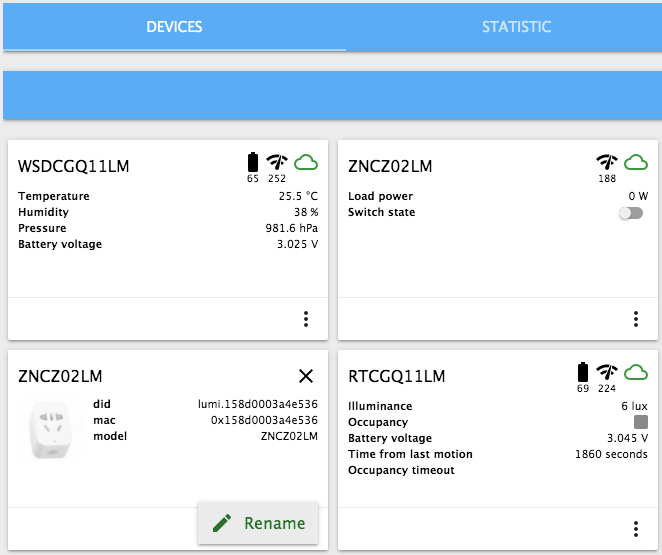
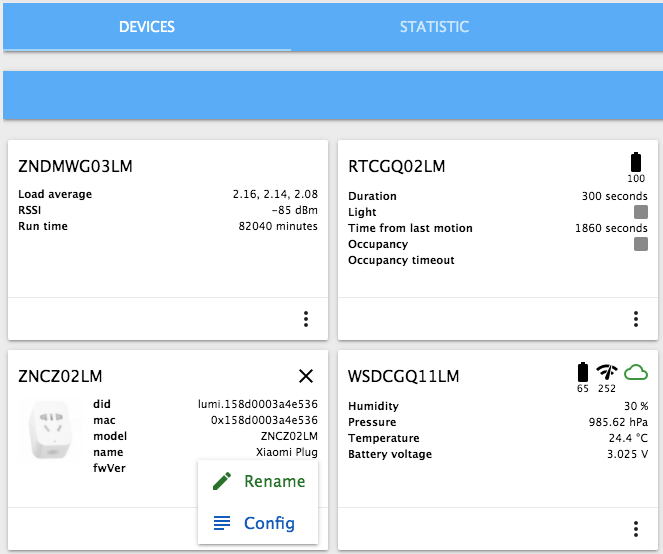
Add config for devices
Add possibility for user to define some device options by interface.

diff --git a/main.js b/main.js
@@ -4,9 +4,13 @@
 const utils = require('@iobroker/adapter-core');
 const {isArray, isObject} = require('./lib/tools');
 /* */
+const fs = require('fs');
+const path = require('path');
 const crypto = require('crypto');
 const mqtt = require('mqtt');
 const format = require('date-fns/format');
+/* */
+const yaml = require('js-yaml');
 /* */
 const {fetchHashOfString} = require('./lib/utils');
 /* */
@@ -164,7 +168,18 @@ class XiaomiGateway3 extends utils.Adapter {
             this.#mqttc.on('message', this._onMqttMessage.bind(this));
         }
 
-        /* set adapter connection indicator */
+        /* Create instance data folder `xiaomi-gateway3_%INSTANCE%` */
+        const dbDir = path.join(utils.getAbsoluteInstanceDataDir(this), '').replace('.', '_');
+
+        if (!fs.existsSync(dbDir)) {
+            try {
+                fs.mkdirSync(dbDir, '0755');
+            } catch (e) {
+                this.logger.error(`Cannot create directory ${dbDir}: ${e}`);
+            }
+        }
+
+        /* Set adapter connection indicator */
         const connected = enabledTelnet && enabledMqtt;
 
         await this.setStateAsync('info.connection', connected, true);
@@ -198,6 +213,8 @@ class XiaomiGateway3 extends utils.Adapter {
                 'GetDevices': this._msgGetDevices.bind(this),
                 'ModifyDeviceObject': this._msgModifyDeviceObject.bind(this),
                 'SetStateValue': this._msgSetStateValue.bind(this),
+                'ReadFromFile':  this._msgReadFromFile.bind(this),
+                'WriteToFile': this._msgWriteToFile.bind(this)
             };
 
             await handlers[command](from, command, message, callback);
@@ -353,11 +370,12 @@ class XiaomiGateway3 extends utils.Adapter {
                     .map(row => row.value)
                     .filter(el => el.common.custom == undefined
                         || el.common.custom[this.namespace] == undefined
-                        || el.common.custom[this.namespace].showInCard == true
+                        || el.common.custom[this.namespace].hideFromCard == undefined
+                        || el.common.custom[this.namespace].hideFromCard != true
                     )
             );
 
-            const stateCommon = {};
+            const stateCommon = {};          
             for (const object of stateObject) {
                 const sn = object['_id'].split('.').splice(-1)[0];
                 const {common} = object;
@@ -399,6 +417,37 @@ class XiaomiGateway3 extends utils.Adapter {
         const {id, value} = message;
 
         await this.setStateAsync(id, value, false);
+    }
+    
+    /* 'ReadFromFile' message handler */
+    async _msgReadFromFile(from, command, message, callback) {
+        const {file} = message;
+        const filePath = this._instanceFileName(file);
+
+        let fileData = undefined;
+
+        try {
+            if (fs.existsSync(filePath))
+                fileData = fs.readFileSync(filePath, {encoding: 'utf8'});
+        } catch (e) {
+            this.logger.error(e.message);
+        }
+
+        if (callback)
+            this.sendTo(from, command, fileData, callback);
+    }
+
+    /* 'WriteToFile' message handler */
+    async _msgWriteToFile(from, command, message, callback) {
+        const {file, data} = message;
+        
+        try {
+            const filePath = this._instanceFileName(file);
+                
+            fs.writeFileSync(filePath, data, {encoding: 'utf8'});
+        } catch (e) {
+            this.logger.error(e.message);
+        }
     }
     
     /* MQTT on 'connect' event callback */
@@ -522,6 +571,9 @@ class XiaomiGateway3 extends utils.Adapter {
         const specStatesNames = [];
 
         /* */
+        const deviceConfigFromFile = this._readDeviceConfigFromFile(objectId, false);
+
+        /* */
         for (let state of deviceSpec) {
             const stateName = state.stateName;
             const _id = `${objectId}.${stateName}`;
@@ -529,11 +581,37 @@ class XiaomiGateway3 extends utils.Adapter {
             let stateObject = state.stateObject;
             const {custom} = stateObject.common;
 
-            if (custom != undefined)
-                stateObject.common.custom = {[this.namespace]: custom};
+            stateObject.common.custom = {[this.namespace]: Object.assign({}, custom)};
 
-            /* create state object if it is not exist */
-            await this.setObjectNotExistsAsync(_id, Object.assign({},
+            /* */
+            const _stateObject = await this.getObjectAsync(_id);
+            
+            if (_stateObject != undefined) {
+                const {_custom} = _stateObject.common;
+                const {custom} = stateObject.common;
+
+                stateObject.common.custom = Object.assign({}, _custom, custom);
+            }
+
+            /* */
+            if (deviceConfigFromFile != undefined) {
+                const {cardStates} = deviceConfigFromFile;
+                
+                if (cardStates != undefined) {
+                    const {hide} = cardStates;
+                    const that = stateObject.common.custom[this.namespace];
+
+                    stateObject.common.custom[this.namespace] = Object.assign({}, that);
+
+                    if (isArray(hide)) {
+                        if (hide.includes(stateName))
+                            stateObject.common.custom[this.namespace].hideFromCard = true;
+                    }
+                }
+            }
+
+            /* set state object */
+            await this.setObjectAsync(_id, Object.assign({},
                 {'_id': `${this.namespace}.${_id}`},
                 stateObject
             ));
@@ -569,6 +647,31 @@ class XiaomiGateway3 extends utils.Adapter {
     /* */
     async _cbSendMqttMessage(topic, msg) {
         this.#mqttc.publish(topic, msg);
+    }
+
+    /* */
+    _instanceFileName(fileName) {
+        const instanceDataDir = utils.getAbsoluteInstanceDataDir(this).replace('.', '_');
+        return path.join(instanceDataDir, fileName);
+    }
+
+    /* */
+    _readDeviceConfigFromFile(id, showError) {
+        showError = showError == undefined ? true : showError;
+
+        const deviceConfigFile = this._instanceFileName(id + '.yaml');
+
+        try {
+            const deviceConfigYaml = fs.readFileSync(deviceConfigFile, {encoding: 'utf8'});
+            const deviceConfigJson = yaml.load(deviceConfigYaml);
+
+            return deviceConfigJson;
+        } catch (e) {
+            if (showError || e instanceof yaml.YAMLException)
+                this.logger.error(e.message);
+
+            return undefined;
+        }
     }
 }
 

diff --git a/admin/tab_m.js b/admin/tab_m.js
@@ -148,6 +148,41 @@ async function load(settings, onChange) {
         sendTo(namespace, 'ModifyDeviceObject', {id, object: {name}}, function (data) {});
     });
 
+    /* Open modal for device friendly name editing */
+    $(`a.open-yaml`).click(function (event) {
+        const $trigger = $(event.target);
+        
+        const instance = M.Modal.getInstance($('#modal_yaml'));
+        const $modal = $(instance.el);
+
+        const id = $trigger.data('oid');
+        const file = id.split('.').pop() + '.yaml';
+       
+        sendTo(namespace, 'ReadFromFile', {file}, function (data) {
+            if (data == undefined || data == 'ReadFromFile')
+                $modal.find('#yaml_input').val('');
+            else
+                $modal.find('#yaml_input').val(data);
+
+            if (M) M.updateTextFields();
+        });
+
+        $modal.data('oid', id);
+
+        instance.open();
+    });
+
+    $(`a.apply-yaml`).click(function (event) {
+        const $el = $(event.target);
+        const $modal = $el.parents('#modal_yaml');
+
+        const id = $modal.data('oid');
+        const file = id.split('.').pop() + '.yaml';
+        const data = $modal.find('#yaml_input').val();
+        
+        sendTo(namespace, 'WriteToFile', {file, data}, function (data) {});
+    });
+
     /*  */
     onChange(false);
 }
@@ -327,7 +362,8 @@ function showDevices() {
                             </div>
                             <!-- Dropdown Structure -->
                             <ul id="dropdown_${id}" class="dropdown-content">
-                                <li><a href="#!" class="green-text text-darken-3 open-rename" data-oid="${namespace}.${id}"><i class="material-icons">edit</i>${textRename}</a></li>
+                                <li><a href="#!" class="green-text text-darken-3 open-rename" data-oid="${namespace}.${id}"><i class="material-icons">edit</i>${translateWord('Rename')}</a></li>
+                                <li><a href="#!" class="blue-text text-darken-3 open-yaml" data-oid="${namespace}.${id}"><i class="material-icons">subject</i>${translateWord('Config')}</a></li>
                                 <!-- <li class="divider" tabindex="-1"></li> -->
                                 <!-- <li><a id="a_delete_${id}" href="#!" class="red-text text-darken-3"><i class="material-icons">delete</i>delete</a></li> -->
                             </ul>
@@ -389,6 +425,9 @@ socket.on('stateChange', function (id, state) {
         devices[_id].stateVal[_state] = value;
 
         if (['available', 'link_quality', 'battery'].includes(_state) == false) {
+            if (!Object.keys(devices[_id].stateCommon).includes(_state))
+                return;
+
             const {role, type, write, states, unit} = devices[_id].stateCommon[_state];
             const $el = $(`#${_id}_${_state}`);
 

diff --git a/admin/tab_m.html b/admin/tab_m.html
@@ -250,20 +250,41 @@
         }
 
         /* MODAL EDIT */
-        .m #modal_rename.modal {
-            width: 450px;
-        }
-        .m #modal_rename.modal .modal-content {
+        .m .modal .modal-content {
             width: 100% !important;
             height: 100% !important;
             padding-bottom: 0;
         }
-        .m #modal_rename.modal .modal-content .row {
+        .m .modal .modal-content .row {
             margin-bottom: 0;
         }
-        .m #modal_rename.modal .modal-footer {
+        .m .modal .modal-content .row > .col {
+            margin-bottom: 0 !important;
+            padding: 0 !important;
+        }
+        .m .modal .modal-footer {
             padding: 4px 20px;
             width: 100% !important;
+        }
+        .m #modal_rename.modal {
+            width: 450px;
+        }
+        .m #modal_yaml.modal {
+            width: 450px;
+        }
+        .m #modal_yaml.modal .modal-content .row > .col {
+            margin-top: 0 !important;
+        }
+        .m #modal_yaml.modal textarea {
+            border: 1px solid #9e9e9e;
+            font-size: 14px;
+            height: 300px !important;
+            overflow-y: scroll;
+            padding: 5px 4px !important;
+        }
+        .m #modal_yaml.modal textarea:focus {
+            border: 1px solid #2196f3;
+            box-shadow: 0 1px 0 0 #2196f3;
         }
     </style>
     <!-- <script type="text/javascript"></script> -->
@@ -358,6 +379,20 @@
             </div>
             <div class="modal-footer">
                 <a id="apply_rename" href="#!" class="modal-close apply-rename waves-effect waves-green btn-flat translate">Apply</a>
+            </div>
+        </div>
+        <!-- Modal yaml -->
+        <div id="modal_yaml" class="modal">
+            <div class="modal-content" style="width: 100% !important;">
+                <div class="row">
+                    <div class="input-field col s12">
+                        <textarea id="yaml_input" class="materialize-textarea"></textarea>
+                        <label for="yaml_input"></label>
+                    </div>
+                </div>
+            </div>
+            <div class="modal-footer">
+                <a id="apply_yaml" href="#!" class="modal-close apply-yaml waves-effect waves-green btn-flat translate">Apply</a>
             </div>
         </div>
     </div>

diff --git a/README.md b/README.md
@@ -244,6 +244,18 @@ Also you can change `friendly name` of device.
 
 _**Note:** For now this page has basic functional. It well be expanded in future._
 
+### Device config
+
+You can define some options to configure device (and device's card) by writing configuration with yaml. Awailable options discribed belowe in table. You can invoke device config window (window with text input area) with `Config` point in menu.
+
+<img src="static/device-yaml-config.png">
+
+#### Device configuration options
+|Field|Type|Description|
+|---|---|---|
+|cardStates|Dictionary|This dictionary hold options for device's card|
+|cardStates.hide|List|List of states (states ids) which have to be hidden from device's card|
+
 ### Statistic
 
 <img src="static/tab-statistic.png">
